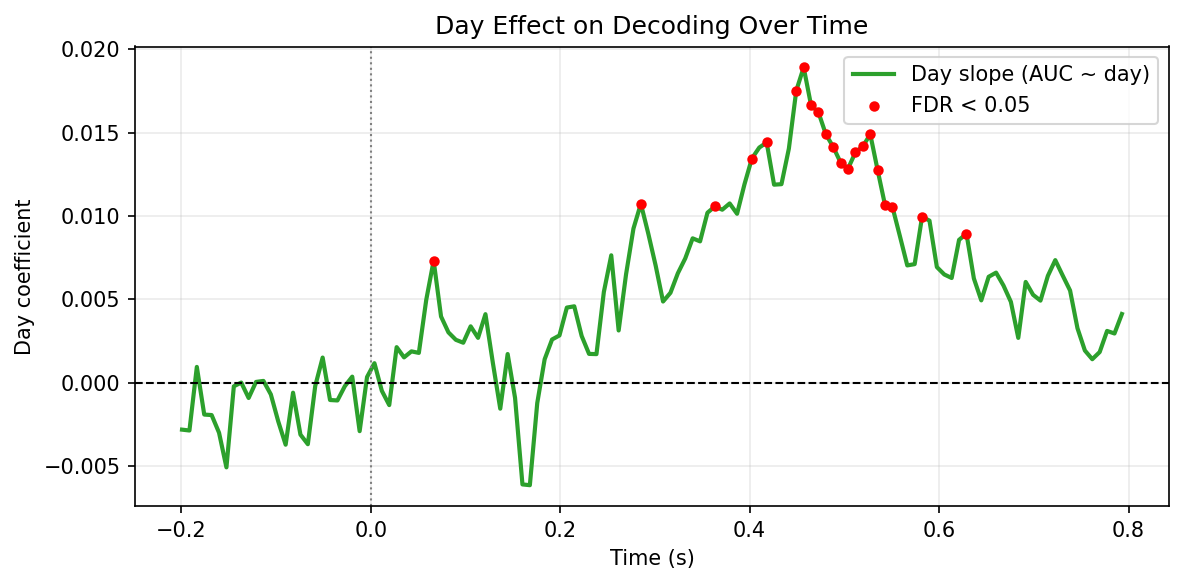
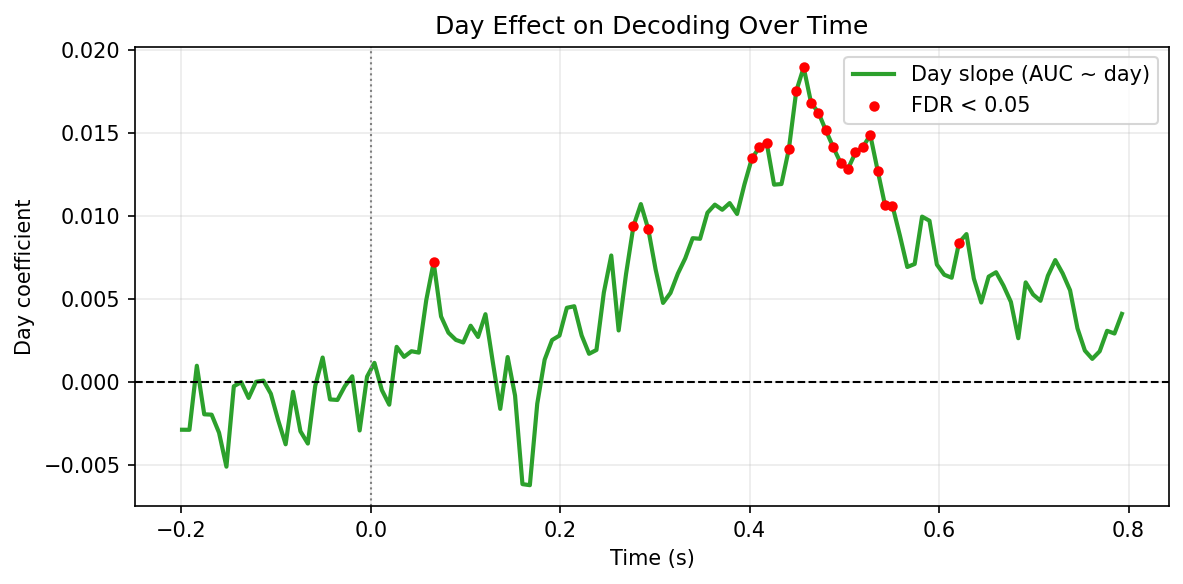
haufe gen stim

diff --git a/code/mvpa_time_resolved_stim_locked.py b/code/mvpa_time_resolved_stim_locked.py
@@ -62,6 +62,18 @@ def build_clf(random_state: int):
     )
 
 
+def vector_corr(x_vec, y_vec):
+    valid = np.isfinite(x_vec) & np.isfinite(y_vec)
+    if int(np.sum(valid)) < 3:
+        return np.nan
+    x_use = x_vec[valid] - np.nanmean(x_vec[valid])
+    y_use = y_vec[valid] - np.nanmean(y_vec[valid])
+    denom = np.sqrt(np.sum(x_use**2) * np.sum(y_use**2))
+    if (not np.isfinite(denom)) or denom <= np.finfo(float).eps:
+        return np.nan
+    return float(np.sum(x_use * y_use) / denom)
+
+
 def make_haufe_info_from_pos_df(pos_df):
     ch_names = pos_df["channel"].tolist()
     ch_pos = {
@@ -290,6 +302,120 @@ def plot_haufe_topo_at_peak(peak_df, haufe_day_mean_df, pos_df, figures_dir):
     else:
         cax.axis("off")
     fig.tight_layout(rect=[0, 0, 0.90, 0.95])
+    fig.savefig(fig_path, dpi=150, bbox_inches="tight")
+    plt.close(fig)
+    return fig_path
+
+
+def plot_haufe_similarity_day_pairs(peak_df, haufe_day_mean_df, figures_dir):
+    figures_dir = Path(figures_dir)
+    figures_dir.mkdir(parents=True, exist_ok=True)
+    fig_path = figures_dir / "mvpa_haufe_similarity_timegen_matrices_5x5.png"
+
+    if haufe_day_mean_df.empty:
+        fig = plt.figure(figsize=(10, 4))
+        fig.text(0.5, 0.5, "No Haufe similarity data available", ha="center", va="center")
+        fig.savefig(fig_path, dpi=150, bbox_inches="tight")
+        plt.close(fig)
+        return fig_path
+
+    day_grid = [1, 2, 3, 4, 5]
+    channel_order = sorted(haufe_day_mean_df["channel"].dropna().unique().tolist())
+    similarity_maps = {}
+    time_maps = {}
+    for day in day_grid:
+        d_day = haufe_day_mean_df[haufe_day_mean_df["day"] == day].copy()
+        if d_day.empty:
+            continue
+        times = np.sort(d_day["time_sec"].dropna().unique().astype(float))
+        time_maps[day] = times
+        vec_map = {}
+        for t in times:
+            d_time = d_day[np.isclose(d_day["time_sec"], t)]
+            vec_map[float(t)] = (
+                d_time.set_index("channel").reindex(channel_order)["pattern_mean"]
+                .to_numpy(dtype=float)
+            )
+        similarity_maps[day] = vec_map
+
+    peak_medians = {}
+    if not peak_df.empty:
+        peak_medians = {
+            (int(r["day"]), str(r["peak"])): float(r["peak_time_sec"])
+            for _, r in (
+                peak_df.groupby(["day", "peak"], as_index=False)["peak_time_sec"]
+                .median()
+                .iterrows()
+            )
+        }
+
+    fig, axes = plt.subplots(5, 5, figsize=(18.0, 16.0), squeeze=False)
+    im = None
+    for i, train_day in enumerate(day_grid):
+        for j, test_day in enumerate(day_grid):
+            ax = axes[i, j]
+            train_times = time_maps.get(train_day)
+            test_times = time_maps.get(test_day)
+            if train_times is None or test_times is None:
+                ax.axis("off")
+                continue
+            mat = np.full((len(train_times), len(test_times)), np.nan)
+            train_vecs = similarity_maps[train_day]
+            test_vecs = similarity_maps[test_day]
+            for ti, t_train in enumerate(train_times):
+                x_vec = train_vecs[float(t_train)]
+                for tj, t_test in enumerate(test_times):
+                    y_vec = test_vecs[float(t_test)]
+                    mat[ti, tj] = vector_corr(x_vec, y_vec)
+            im = ax.imshow(
+                np.ma.masked_invalid(mat),
+                origin="lower",
+                aspect="auto",
+                extent=[
+                    float(test_times.min()),
+                    float(test_times.max()),
+                    float(train_times.min()),
+                    float(train_times.max()),
+                ],
+                vmin=-1.0,
+                vmax=1.0,
+                cmap="RdBu_r",
+            )
+            ax.axvline(0.0, color="white", linestyle=":", linewidth=0.8)
+            ax.axhline(0.0, color="white", linestyle=":", linewidth=0.8)
+            for peak_label, color in [("early", "#b22222"), ("late", "#ff7f0e")]:
+                if (test_day, peak_label) in peak_medians:
+                    ax.axvline(
+                        peak_medians[(test_day, peak_label)],
+                        color=color,
+                        linestyle="--",
+                        linewidth=0.9,
+                    )
+                if (train_day, peak_label) in peak_medians:
+                    ax.axhline(
+                        peak_medians[(train_day, peak_label)],
+                        color=color,
+                        linestyle="--",
+                        linewidth=0.9,
+                    )
+            if i == 0:
+                ax.set_title(f"Test D{test_day}", fontsize=9)
+            if j == 0:
+                ax.set_ylabel(f"Train D{train_day}", fontsize=9)
+            if i == 4:
+                ax.set_xlabel("Test Time (s)")
+            else:
+                ax.set_xticklabels([])
+            if j != 0:
+                ax.set_yticklabels([])
+
+    fig.suptitle("Haufe Pattern Similarity by Day Pair (A/B)", y=0.98)
+    fig.subplots_adjust(top=0.94, bottom=0.06, left=0.06, right=0.90, wspace=0.26, hspace=0.36)
+    cax = fig.add_axes([0.92, 0.14, 0.015, 0.72])
+    if im is not None:
+        fig.colorbar(im, cax=cax, label="Pattern correlation")
+    else:
+        cax.axis("off")
     fig.savefig(fig_path, dpi=150, bbox_inches="tight")
     plt.close(fig)
     return fig_path
@@ -638,21 +764,50 @@ def run_stimulus_locked_mvpa_analysis(
         with warnings.catch_warnings():
             warnings.simplefilter("ignore", ConvergenceWarning)
             warnings.simplefilter("ignore", UserWarning)
-            model = smf.mixedlm("auc ~ day", data=g, groups=g["subject"]).fit(
-                reml=False, method="lbfgs", disp=False
-            )
-            effect_rows.append(
-                {
-                    "time_sec": float(t),
-                    "n_rows": int(len(g)),
-                    "n_subjects": int(g["subject"].nunique()),
-                    "day_coef": float(model.params["day"]),
-                    "day_se": float(model.bse["day"]),
-                    "day_pvalue": float(model.pvalues["day"]),
-                    "status": "ok",
-                    "detail": "",
-                }
-            )
+            try:
+                model = smf.mixedlm("auc ~ day", data=g, groups=g["subject"]).fit(
+                    reml=False, method="lbfgs", disp=False
+                )
+                effect_rows.append(
+                    {
+                        "time_sec": float(t),
+                        "n_rows": int(len(g)),
+                        "n_subjects": int(g["subject"].nunique()),
+                        "day_coef": float(model.params["day"]),
+                        "day_se": float(model.bse["day"]),
+                        "day_pvalue": float(model.pvalues["day"]),
+                        "status": "ok",
+                        "detail": "",
+                    }
+                )
+            except Exception as exc:
+                try:
+                    model = smf.ols("auc ~ day", data=g).fit()
+                    effect_rows.append(
+                        {
+                            "time_sec": float(t),
+                            "n_rows": int(len(g)),
+                            "n_subjects": int(g["subject"].nunique()),
+                            "day_coef": float(model.params["day"]),
+                            "day_se": float(model.bse["day"]),
+                            "day_pvalue": float(model.pvalues["day"]),
+                            "status": "ols_fallback",
+                            "detail": str(exc),
+                        }
+                    )
+                except Exception as exc2:
+                    effect_rows.append(
+                        {
+                            "time_sec": float(t),
+                            "n_rows": int(len(g)),
+                            "n_subjects": int(g["subject"].nunique()),
+                            "day_coef": np.nan,
+                            "day_se": np.nan,
+                            "day_pvalue": np.nan,
+                            "status": "fit_error",
+                            "detail": f"{exc}; fallback={exc2}",
+                        }
+                    )
 
     day_effect_df = pd.DataFrame(effect_rows).sort_values("time_sec")
     day_effect_df["p_fdr"] = np.nan
@@ -738,6 +893,7 @@ def save_fig_mvpa_time_resolved(
     fig_day_panels = figures_dir / "mvpa_auc_by_day_panels.png"
     fig_day_slope = figures_dir / "mvpa_day_slope_timecourse.png"
     fig_haufe_stability = figures_dir / "mvpa_haufe_peak_stability.png"
+    fig_haufe_similarity = figures_dir / "mvpa_haufe_similarity_timegen_matrices_5x5.png"
 
     if (not day_means_csv.exists()) or (not day_effect_csv.exists()):
         raise FileNotFoundError(
@@ -776,17 +932,6 @@ def save_fig_mvpa_time_resolved(
         peak_df = pd.DataFrame(rows).sort_values(["day", "peak", "subject"])
         peak_df.to_csv(haufe_peak_times_csv, index=False)
         return peak_df
-
-    def vector_corr(x_vec, y_vec):
-        valid = np.isfinite(x_vec) & np.isfinite(y_vec)
-        if int(np.sum(valid)) < 3:
-            return np.nan
-        x_use = x_vec[valid] - np.nanmean(x_vec[valid])
-        y_use = y_vec[valid] - np.nanmean(y_vec[valid])
-        denom = np.sqrt(np.sum(x_use**2) * np.sum(y_use**2))
-        if (not np.isfinite(denom)) or denom <= np.finfo(float).eps:
-            return np.nan
-        return float(np.sum(x_use * y_use) / denom)
 
     def write_haufe_stability(peak_df, haufe_ch_names):
         if (not haufe_session_csv.exists()) or peak_df.empty:
@@ -973,6 +1118,11 @@ def save_fig_mvpa_time_resolved(
         haufe_topo_peak_path = plot_haufe_topo_at_peak(
             peak_df, haufe_df, pos_df, figures_dir
         )
+    haufe_similarity_path = None
+    if not haufe_df.empty:
+        haufe_similarity_path = plot_haufe_similarity_day_pairs(
+            peak_df, haufe_df, figures_dir
+        )
 
     days = sorted(day_means_df["day"].unique())
     fig, axes = plt.subplots(1, len(days), figsize=(5 * len(days), 5.2), sharey=True, squeeze=False)
@@ -1084,8 +1234,10 @@ def save_fig_mvpa_time_resolved(
             "day_panels": fig_day_panels,
             "day_slope": fig_day_slope,
             "haufe_stability": fig_haufe_stability,
+            "haufe_similarity": fig_haufe_similarity,
             "peak_latency_trajectory": peak_latency_path,
             "haufe_topo_at_peak": haufe_topo_peak_path,
+            "haufe_similarity_day_pairs": haufe_similarity_path,
         },
         "haufe_stability_subject_csv": haufe_stability_subject_csv,
         "haufe_stability_summary_csv": haufe_stability_summary_csv,

diff --git a/code/mvpa_tg_stim_feedback_cross_epoch.py b/code/mvpa_tg_stim_feedback_cross_epoch.py
@@ -36,7 +36,7 @@ from mvpa_tg_within_day import balanced_day_subset, build_clf, prepare_session_c
 PROJECT_DIR = Path(__file__).resolve().parent.parent
 OUTPUT_DIR = PROJECT_DIR / "output"
 FIGURES_DIR = PROJECT_DIR / "figures"
-N_JOBS = 8
+N_JOBS = 2
 
 TRAIN_TEST_DIRECTIONS = {
     "stim_to_feedback": ("stim", "feedback"),
@@ -435,7 +435,7 @@ def run_mvpa_tg_cross_epoch(
     elif pair_items:
         if threadpool_limits is None:
             result_iter = Parallel(
-                n_jobs=n_workers, backend="threading", verbose=0, return_as="generator_unordered"
+                n_jobs=n_workers, backend="loky", verbose=0, return_as="generator_unordered"
             )(
                 delayed(process_cross_epoch_pair)(item, random_state=random_state)
                 for item in pair_items
@@ -445,7 +445,7 @@ def run_mvpa_tg_cross_epoch(
             with threadpool_limits(limits=1):
                 result_iter = Parallel(
                     n_jobs=n_workers,
-                    backend="threading",
+                    backend="loky",
                     verbose=0,
                     return_as="generator_unordered",
                 )(
